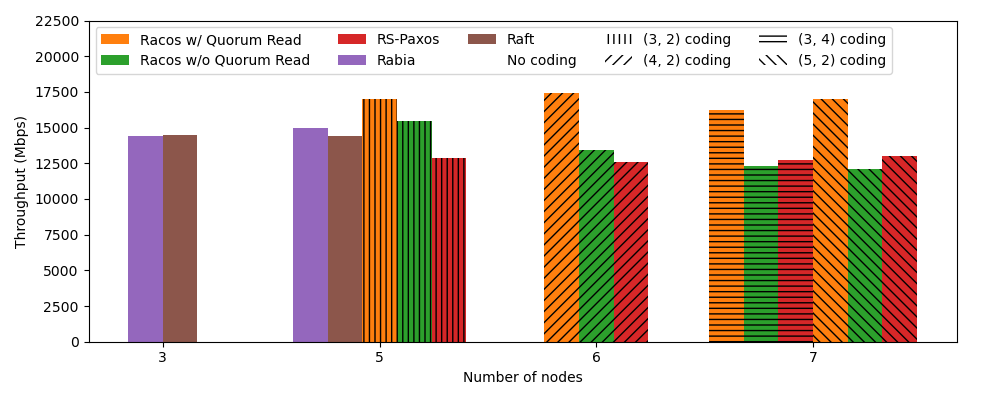
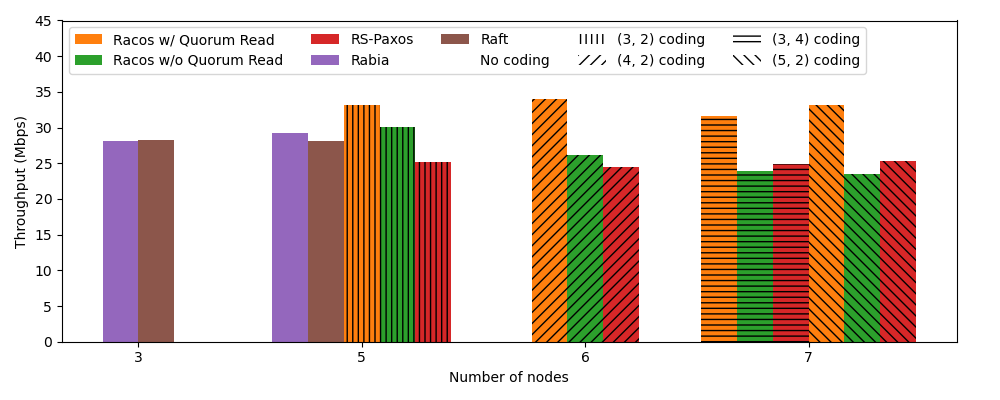
small changes

diff --git a/helpers/plotting_helpers.py b/helpers/plotting_helpers.py
@@ -83,9 +83,10 @@ def plot_56_getter(data: pandas.DataFrame, alg : str, num_nodes : int, col : str
   :param num_nodes: the number of nodes to get from
   :param col:
   '''
-  raw_val : float = data.loc[(data['alg'] == alg) & (data['num_nodes'] == num_nodes)][col].mean()
+  pruned_data : pandas.DataFrame = data.loc[(data['alg'] == alg) & (data['num_nodes'] == num_nodes)]
+  raw_val : float = pruned_data[col].mean()
   if not col.endswith('_latency'):
-    return raw_val * 5.336
+    return raw_val * pruned_data['unit_size'].mean() / 125
   return raw_val / 1000
 
 def plot_loss(test : str, name_53 : str, name_54: str) -> None:

diff --git a/plotting.py b/plotting.py
@@ -80,7 +80,7 @@ def scalability_13_50_write_50_read() -> None:
   pyplot.bar(3.08, plot_56_getter(plot_data, 'racos52', 8, 'ops'), .16, color = 'C1', hatch = '\\\\\\')
   pyplot.bar(3.24, plot_56_getter(plot_data, 'tracos52', 8, 'ops'), .16, color = 'C2', hatch = '\\\\\\')
   pyplot.bar(3.4, plot_56_getter(plot_data, 'paxos52', 8, 'ops'), .16, color = 'C3', hatch = '\\\\\\')
-  pyplot.ylim(top = 22500)
+  pyplot.ylim(top = 45)
   pyplot.xticks(range(4), ['3', '5', '6', '7'])
   pyplot.xlabel('Number of nodes')
   pyplot.ylabel('Throughput (Mbps)')
